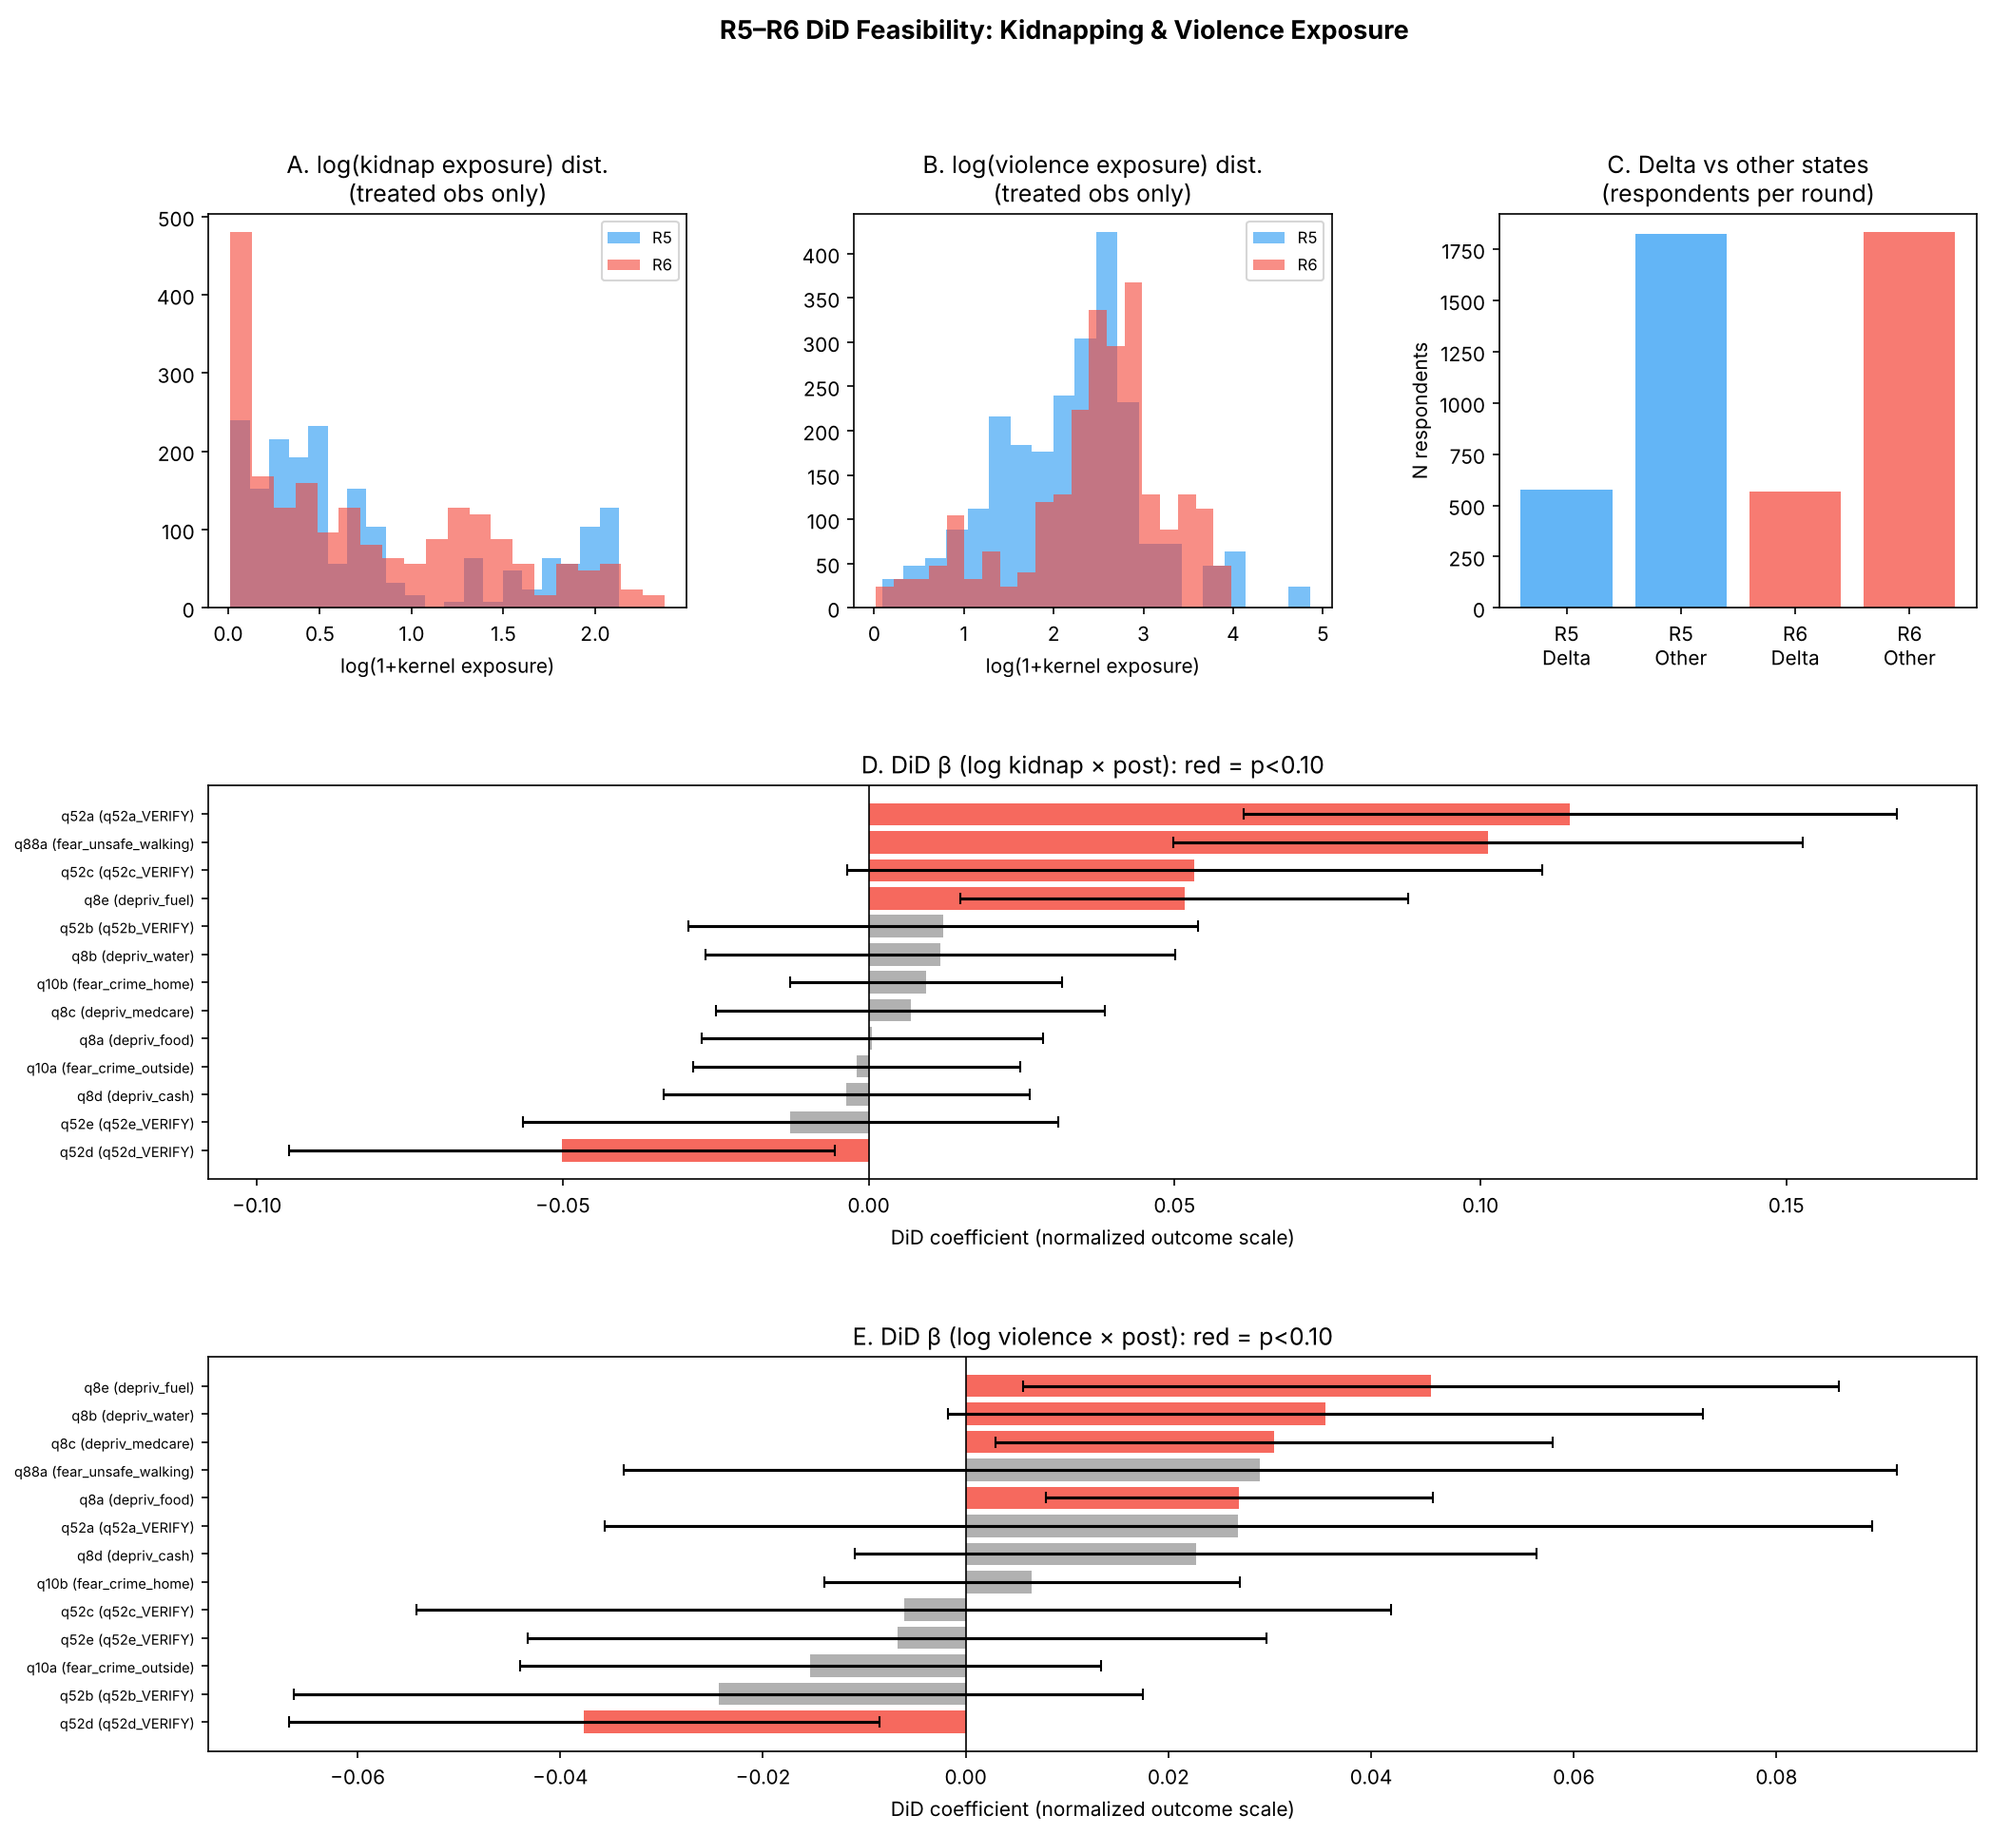
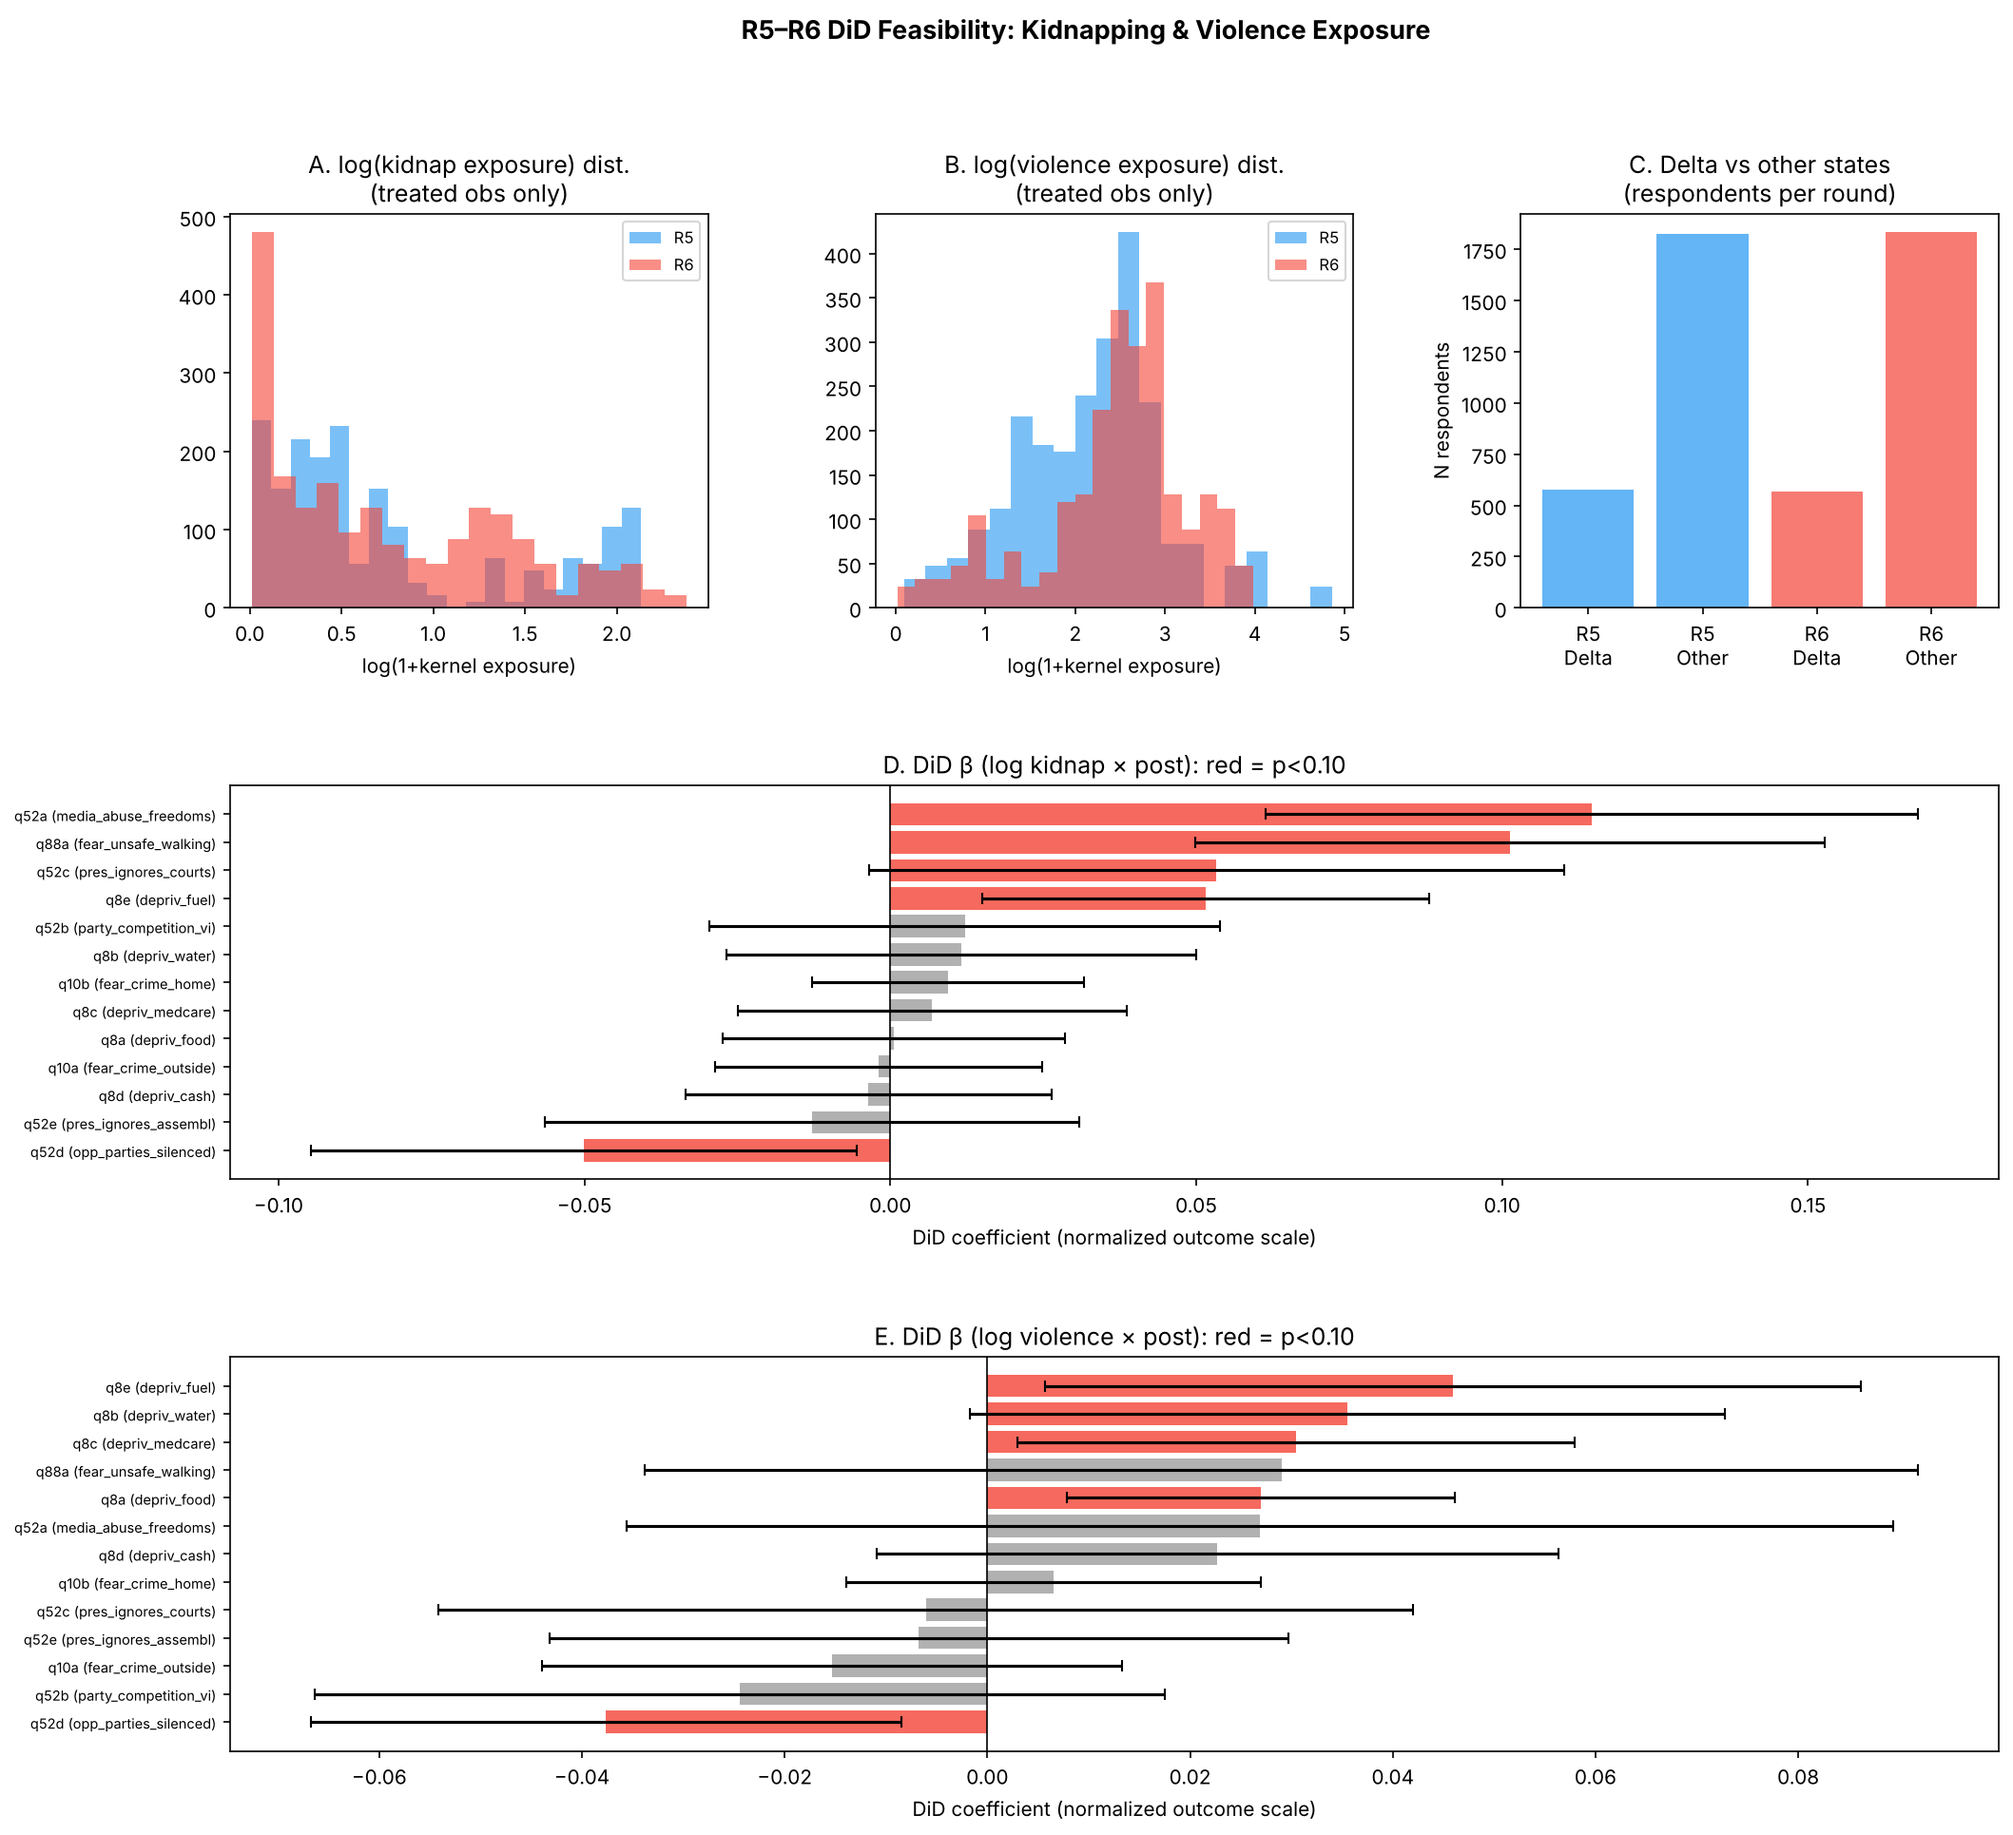
Update q52a-e labels after PDF questionnaire verification
q52a-e in R5 confirmed as democratic accountability perceptions battery
(not trust battery as initially hypothesized). PDF-verified wording:
  q52a: news media abuses freedoms (R5 item)
  q52b: party competition leads to violent conflict (R2 item, longitudinal)
  q52c: president ignores courts/laws (R2 item, longitudinal)
  q52d: opposition parties silenced by government (R5 item)
  q52e: president ignores national assembly (R5 item)

Standard longitudinal items with R2/R5 origins; same 0-3 scale both rounds.
Labels updated in CANDIDATE_OUTCOMES; results CSV and figure regenerated.

Claude-Session: https://claude.ai/code/session_01Koeo3bFt6ZjMRgFm1jpNua

diff --git a/feasibility_did_r5r6.py b/feasibility_did_r5r6.py
@@ -193,15 +193,15 @@ CANDIDATE_OUTCOMES = {
     'q10b': 'fear_crime_home',      # "How often feared crime in your home"
     # Fear while walking: q88a same question stem in both (0-3; -1=N/A in R6, strip)
     'q88a': 'fear_unsafe_walking',  # "How often felt unsafe walking in neighborhood"
-    # ── UNCERTAIN: q52a-e are 0-3 scale in both rounds but q52d uncorrelated ─
-    # with q59h (trust police) in R5 — meaning q52d is NOT trust in police in R5.
-    # Including for reference only; interpretation of significant results requires
-    # PDF-level questionnaire verification of R5 q52 question wording.
-    'q52a': 'q52a_VERIFY',
-    'q52b': 'q52b_VERIFY',
-    'q52c': 'q52c_VERIFY',
-    'q52d': 'q52d_VERIFY',          # corr(q52d_R5, q59h_trust_police_R5) = -0.045
-    'q52e': 'q52e_VERIFY',
+    # ── CONFIRMED COMPARABLE: q52a-e democratic accountability perceptions ─────
+    # PDF-verified R5 question wording. Battery is standard longitudinal items
+    # (R2/R5 sources), carried forward across rounds; scale 0-3 both rounds.
+    # "In your opinion, how often, in this country: ..."
+    'q52a': 'media_abuse_freedoms',      # "Does news media abuse its freedoms?" (R5)
+    'q52b': 'party_competition_violent', # "Does party competition lead to violent conflict?" (R2)
+    'q52c': 'pres_ignores_courts',       # "Does President ignore courts/laws?" (R2)
+    'q52d': 'opp_parties_silenced',      # "Are opposition parties silenced by govt?" (R5)
+    'q52e': 'pres_ignores_assembly',     # "Does President ignore national assembly?" (R5)
     # ── EXCLUDED (different questions across rounds): ─────────────────────────
     # q66a-e: R5=local govt perf, R6=national govt perf (different level+domain)
     # q67a-b: R5=service access difficulty, R6=local govt performance
@@ -213,7 +213,6 @@ CANDIDATE_OUTCOMES = {
     # q59a-b: R5=trust in president/parliament, R6=MP/councilor listening frequency
     # q69a-c: R5=clinic access problems, R6=deprivation frequency items
     # q89a: R5=crime victim binary (0/1), R6=police response scale (1-5) INCOMPARABLE
-    # q52a-e trust battery: R5 equivalent is q59a-j; q52 in R5 is unverified
 }
 
 
